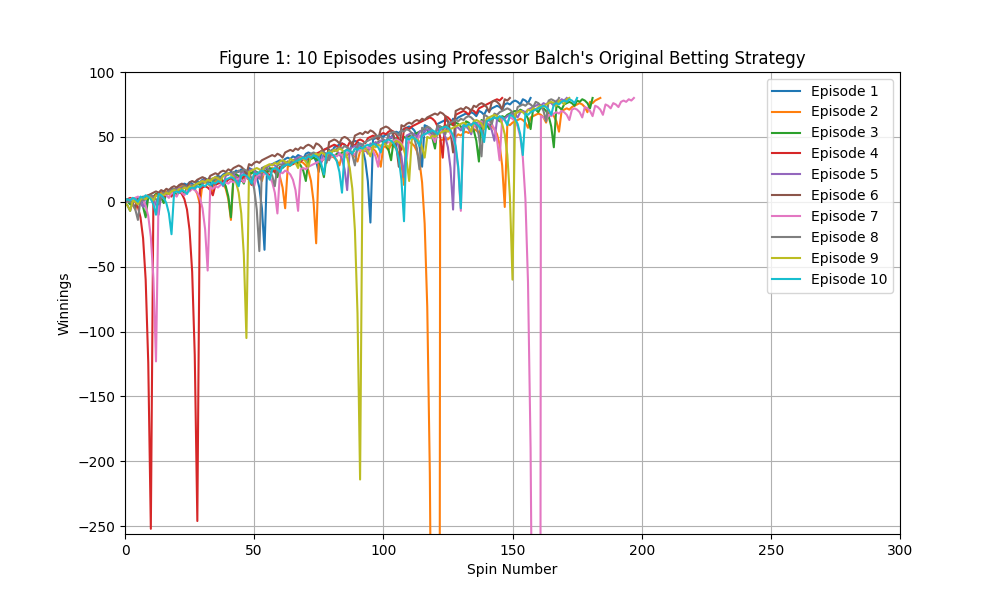
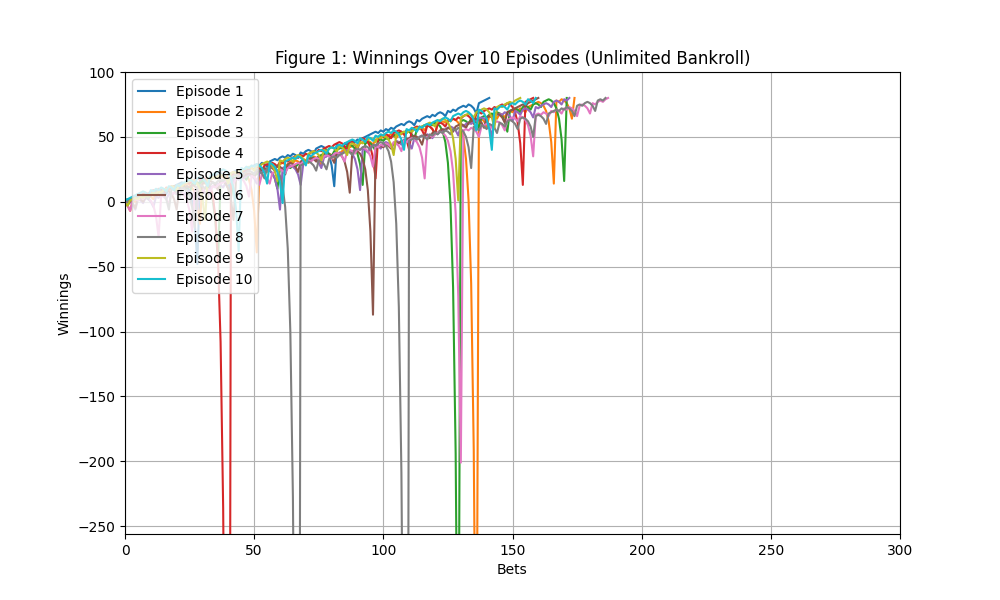
update files

Changed region(s): [[0.124, 0.09, 0.806, 0.9], [0.775, 0.12, 0.899, 0.48], [0.465, 0.93, 0.558, 0.96]]

diff --git a/Week 1/martingale.py b/Week 1/martingale.py
@@ -122,7 +122,7 @@ def test_code_fig1():
         plt.plot(winnings[:301], label=f"Episode {i+1}")
     plt.xlabel("Bets")
     plt.ylabel("Winnings")
-    plt.title("Winnings Over 10 Episodes")
+    plt.title("Figure 1: Winnings Over 10 Episodes (Unlimited Bankroll)")
     plt.xlim(0, 300) 
     plt.ylim(-256, 100) 
     plt.legend(loc="upper left") 
@@ -153,7 +153,7 @@ def test_code_fig2():
     plt.plot(mean_winnings[:301] - std_winnings[:301], label="Mean - 1 Std Dev", linestyle="--")
     plt.xlabel("Bets")
     plt.ylabel("Winnings")
-    plt.title("Mean Winnings Over 1000 Episodes")
+    plt.title("Figure 2: Mean Winnings Over 1000 Episodes (Unlimited Bankroll)")
     plt.xlim(0, 300) 
     plt.ylim(-256, 100) 
     plt.legend(loc="upper left") 
@@ -183,7 +183,7 @@ def test_code_fig3():
     plt.plot(median_winnings[:301] - std_winnings[:301], label="Median - 1 Std Dev", linestyle="--")
     plt.xlabel("Bets")
     plt.ylabel("Winnings")
-    plt.title("Median Winnings Over 1000 Episodes")
+    plt.title("Figure 3: Median Winnings Over 1000 Episodes (Unlimited Bankroll)")
     plt.xlim(0, 300) 
     plt.ylim(-256, 100) 
     plt.legend(loc="upper left") 
@@ -213,7 +213,7 @@ def test_code_fig4():
     plt.plot(mean_winnings - std_winnings, label='Mean - 1 std', linestyle='--')
     plt.xlabel('Spins')
     plt.ylabel('Winnings')
-    plt.title('Figure 4: Mean Winnings Over Time (Limited Bankroll)')
+    plt.title('Figure 4: Mean Winnings Over Time (Limited Bankroll of $256)')
     plt.legend()
     plt.xlim(0, 300)
     plt.ylim(-256, 100)
@@ -243,33 +243,123 @@ def test_code_fig5():
     plt.plot(median_winnings - std_winnings, label='Median - 1 std', linestyle='--')
     plt.xlabel('Spins')
     plt.ylabel('Winnings')
-    plt.title('Figure 5: Median Winnings Over Time (Limited Bankroll)')
+    plt.title('Figure 5: Median Winnings Over Time (Limited Bankroll of $256)')
     plt.legend()
     plt.xlim(0, 300)
     plt.ylim(-256, 100)
     plt.grid(True)
     plt.show()
 
+def question_1 ():
+    # what is the probability of reaching $80 in experiment 1 ?(unbound loss tolerance)
+    num_episodes = 10000 
+    success_count = 0 
+    for _ in range(num_episodes):
+        episode_winnings = simulate_episode_unlimited(target_winnings=80) 
+        if max(episode_winnings) >= 80: 
+            success_count += 1
+
+    # total episodes that reached 80 over total simulated
+    estimated_probability = success_count / num_episodes
+    print(f"The estimated probability of winning $80 within 1000 sequential bets is {estimated_probability:.4f}")
+
+
+# EXPECTED VALUE CALCULATION
+def expected_value(target_winnings=None, max_loss=None, win_prob=18/38):
+    episode_winnings = 0
+    num_bets = 0
+    winnings_over_time = np.zeros(1000)  
+    while num_bets < 1000:
+        won = False
+        bet_amount = 1
+        while not won and num_bets < 1000:
+            won = get_spin_result(win_prob)
+            if won:
+                episode_winnings += bet_amount
+            else:
+                episode_winnings -= bet_amount
+                bet_amount *= 2  # Doubling the bet amount
+            
+            winnings_over_time[num_bets] = episode_winnings
+            num_bets += 1
+    return winnings_over_time[:num_bets]
+
+
+def question2():
+    final_winnings = []
+    for i in range(1000):
+        winnings_over_time = expected_value()
+        final_winnings.append(winnings_over_time[-1]) 
+
+    mean_winnings = np.mean(final_winnings)
+    print(f"The expected value of winnings after 1000 sequential bets is approximately ${mean_winnings:.5f}.")
+
+def limited_expected_value(target_winnings=None, max_loss=-256, win_prob=18/38):
+    episode_winnings = 0
+    num_bets = 0
+    winnings_over_time = np.zeros(1000)
+    while num_bets < 1000:
+        won = False
+        bet_amount = 1
+        while not won and num_bets < 1000:
+            # Check for maximum loss
+            if episode_winnings <= max_loss:
+                break
+            won = get_spin_result(win_prob)
+            if won:
+                episode_winnings += bet_amount
+            else:
+                episode_winnings -= bet_amount
+                bet_amount *= 2  # Doubling the bet amount
+
+            winnings_over_time[num_bets] = episode_winnings
+            num_bets += 1
+
+        # Exit outer loop as well if maximum loss is reached
+        if episode_winnings <= max_loss:
+            break
+    return winnings_over_time[:num_bets]
+
+def question4():
+    # what is the probability of reaching $80 in experiment 2 ?
+    # (bound loss tolerance)
+    num_episodes = 10000 
+    success_count = 0 
+    for _ in range(num_episodes):
+        episode_winnings = simulate_episode_limited(target_winnings=80) 
+        if max(episode_winnings) >= 80: 
+            success_count += 1
+
+    # total episodes that reached 80 over total simulated
+    estimated_probability = success_count / num_episodes
+    print(f"The estimated probability of winning $80 within 1000 sequential bets is {estimated_probability:.4f}")   
+
+
+def question5():
+    final_winnings = []
+    for i in range(1000):
+        winnings_over_time = limited_expected_value()
+        final_winnings.append(winnings_over_time[-1]) 
+
+    mean_winnings = np.mean(final_winnings)
+    print(f"Limited expected value of winnings after 1000 sequential bets is approximately ${mean_winnings:.5f}.")
+
 
 
 if __name__ == "__main__":
-
-# Figure 1
+    # figure generation
     test_code_fig1()
-
-# Figure 2
     test_code_fig2()
-
-# Figure 3
     test_code_fig3()
-
-# Figure 4
     test_code_fig4()
-
-# Figure 5
     test_code_fig5()
 
 
 
+    # questions
+    question_1()
+    question2()
 
+    question4()
+    question5()
 
